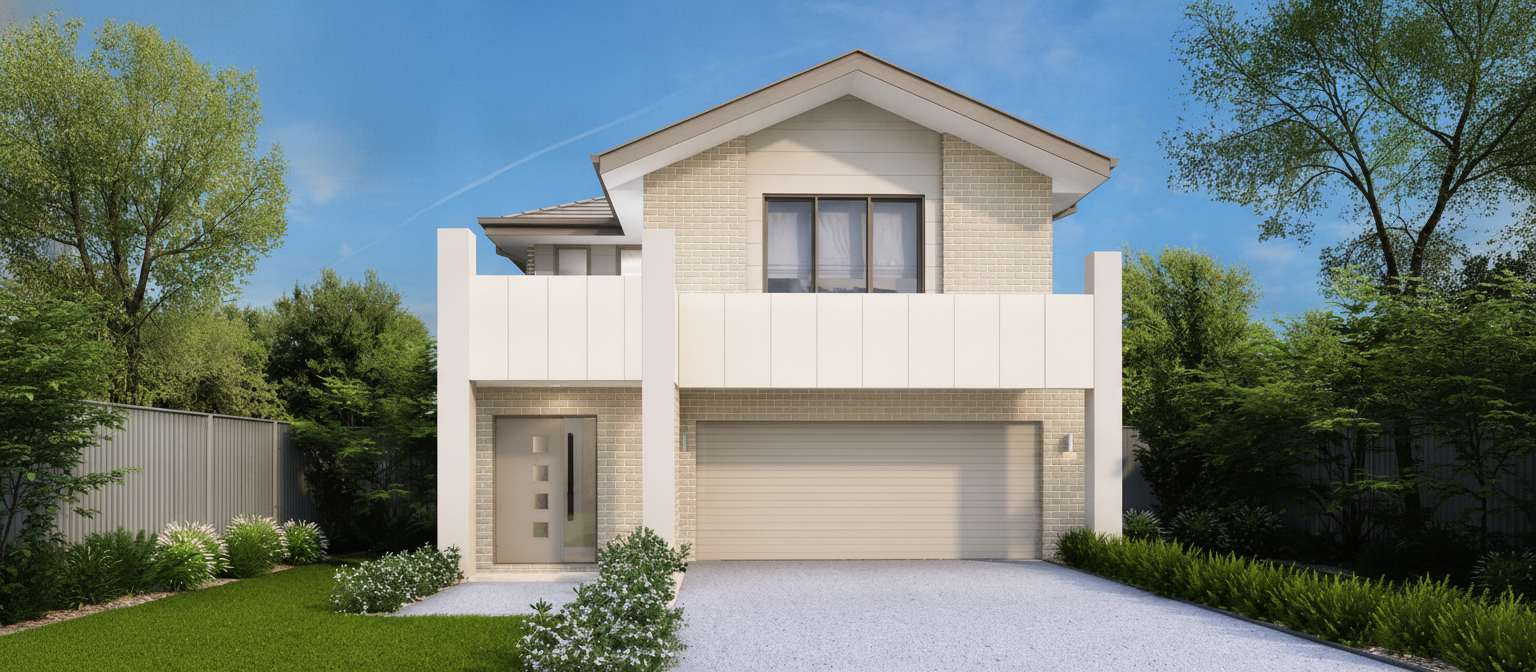
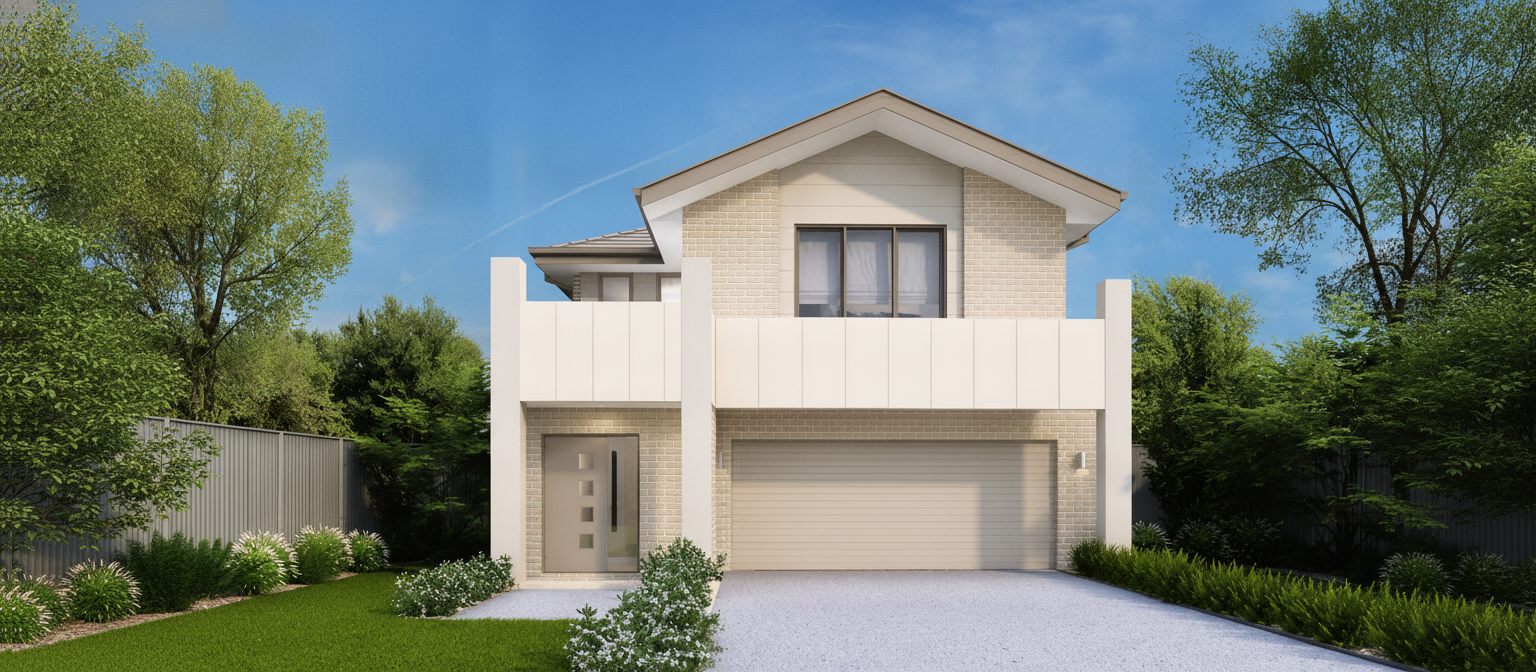
fix(facades): center off-center facade renders and fix quoting tool mappings

diff --git a/src/lib/quoting/facadeLookup.ts b/src/lib/quoting/facadeLookup.ts
@@ -168,6 +168,16 @@ export function findFacadeForDesign(
         tempo: "tempo",
         vista: "vista",
         vogue: "vogue",
+        avoca: "ascot",
+        modernbox: "contemporary",
+        moderncoastal: "contemporary",
+        mochahamptons: "hamptons",
+        modernbarn: "statesman",
+        modernfarmhouse: "statesman",
+        modernfarmhouseoptionb: "statesman",
+        modernclassical: "classic-double-garage",
+        modernclassicaloptiona: "classic-double-garage",
+        modernclassicaloptionb: "classic-double-garage",
       };
 
       if (standardDoubleIdMap[baseKey]) {
@@ -238,6 +248,15 @@ export function findFacadeForDesign(
       vienna: "vienna-single",
       visage: "visage-single",
       vogue: "vogue-single",
+      modernbox: "contemporary-single",
+      moderncoastal: "coastal",
+      mochahamptons: "hamptons-single",
+      modernbarn: "statesman-single",
+      modernfarmhouse: "statesman-single",
+      modernfarmhouseoptionb: "statesman-single",
+      modernclassical: "classic",
+      modernclassicaloptiona: "classic",
+      modernclassicaloptionb: "classic",
     };
 
     if (singleIdMap[baseKey]) {
@@ -270,11 +289,19 @@ export function findFacadeForDesign(
     if (match) return resolveWithPreRendered(match);
   }
 
-  // Fallback to any matching name
+  // Fallback to any matching name, preserving housing type integrity
   const fallback =
-    HUDSON_FACADES.find(
-      (f) => normalizeFacadeKey(f.name) === baseKey || normalizeFacadeKey(f.id) === baseKey
-    ) || HUDSON_FACADES[0];
+    (isDouble
+      ? HUDSON_FACADES.find(
+          (f) =>
+            (f.range === "Double Storey" || f.range === "Narrow Double Storey") &&
+            (normalizeFacadeKey(f.name) === baseKey || normalizeFacadeKey(f.id) === baseKey)
+        ) ||
+        HUDSON_FACADES.find((f) => f.id === "classic-double-garage") ||
+        HUDSON_FACADES.find((f) => f.range === "Double Storey")
+      : HUDSON_FACADES.find(
+          (f) => normalizeFacadeKey(f.name) === baseKey || normalizeFacadeKey(f.id) === baseKey
+        )) || HUDSON_FACADES[0];
 
   return resolveWithPreRendered(fallback);
 }
